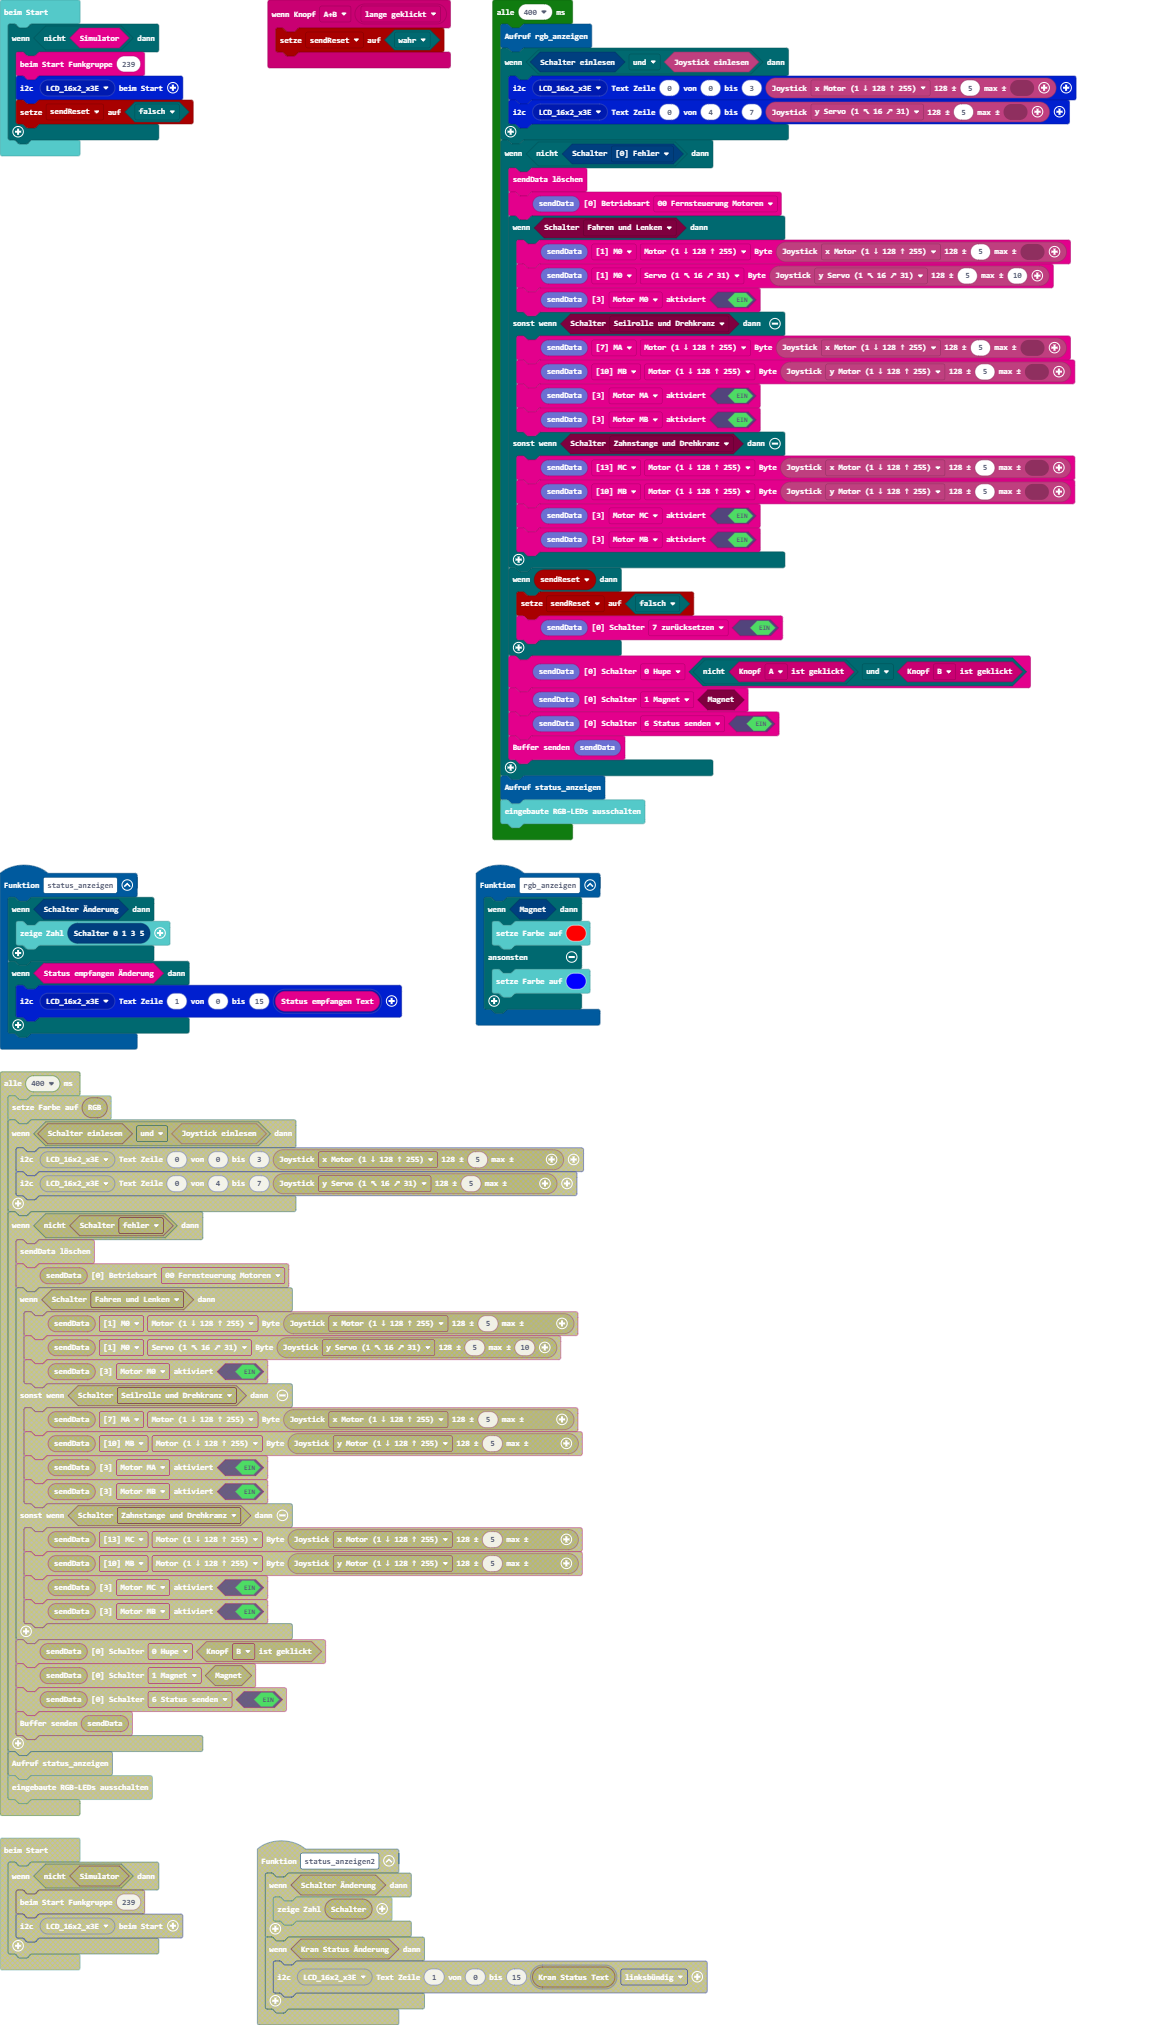
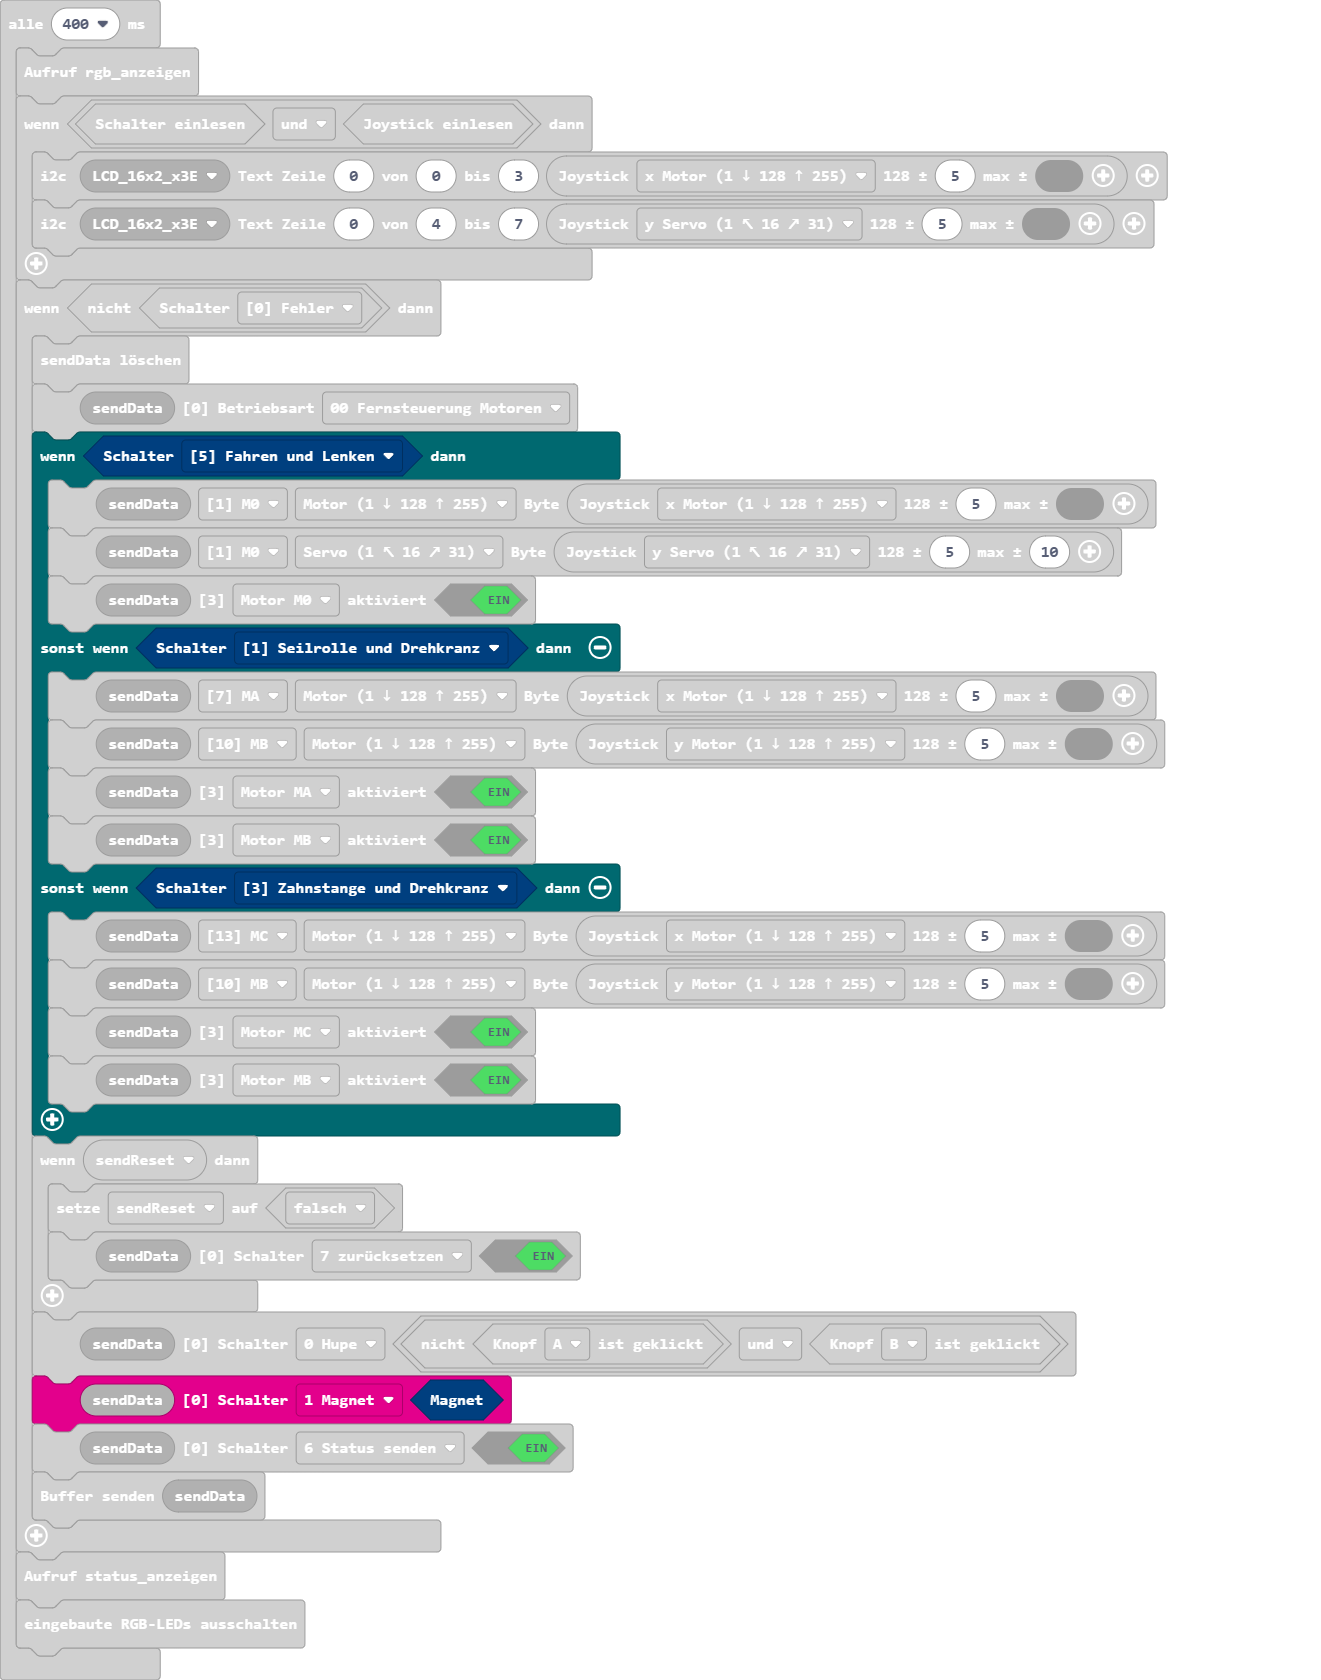
Aktualisiere main.blocks, main.ts

diff --git a/main.ts b/main.ts
@@ -31,16 +31,16 @@ loops.everyInterval(400, function () {
     if (!(radio.isSwitch(radio.eStatus.fehler))) {
         radio.fill_sendBuffer19()
         radio.setBetriebsart(radio.radio_sendBuffer19(), radio.e0Betriebsart.p0)
-        if (kran.isSwitch(kran.eStatus.fahren)) {
+        if (radio.isSwitch(radio.eStatus.fahren)) {
             radio.setByte(radio.radio_sendBuffer19(), radio.eBufferPointer.m0, radio.eBufferOffset.b0_Motor, radio.joystickValue(radio.eJoystickValue.motor, 5))
             radio.setByte(radio.radio_sendBuffer19(), radio.eBufferPointer.m0, radio.eBufferOffset.b1_Servo, radio.joystickValue(radio.eJoystickValue.servo16, 5, 10))
             radio.setaktiviert(radio.radio_sendBuffer19(), radio.e3aktiviert.m0, true)
-        } else if (kran.isSwitch(kran.eStatus.drehen)) {
+        } else if (radio.isSwitch(radio.eStatus.drehen)) {
             radio.setByte(radio.radio_sendBuffer19(), radio.eBufferPointer.ma, radio.eBufferOffset.b0_Motor, radio.joystickValue(radio.eJoystickValue.motor, 5))
             radio.setByte(radio.radio_sendBuffer19(), radio.eBufferPointer.mb, radio.eBufferOffset.b0_Motor, radio.joystickValue(radio.eJoystickValue.ymotor, 5))
             radio.setaktiviert(radio.radio_sendBuffer19(), radio.e3aktiviert.ma, true)
             radio.setaktiviert(radio.radio_sendBuffer19(), radio.e3aktiviert.mb, true)
-        } else if (kran.isSwitch(kran.eStatus.zahnstange)) {
+        } else if (radio.isSwitch(radio.eStatus.zahnstange)) {
             radio.setByte(radio.radio_sendBuffer19(), radio.eBufferPointer.mc, radio.eBufferOffset.b0_Motor, radio.joystickValue(radio.eJoystickValue.motor, 5))
             radio.setByte(radio.radio_sendBuffer19(), radio.eBufferPointer.mb, radio.eBufferOffset.b0_Motor, radio.joystickValue(radio.eJoystickValue.ymotor, 5))
             radio.setaktiviert(radio.radio_sendBuffer19(), radio.e3aktiviert.mc, true)
@@ -51,7 +51,7 @@ loops.everyInterval(400, function () {
             radio.setSchalter(radio.radio_sendBuffer19(), radio.e0Schalter.b7, true)
         }
         radio.setSchalter(radio.radio_sendBuffer19(), radio.e0Schalter.b0, !(input.buttonIsPressed(Button.A)) && input.buttonIsPressed(Button.B))
-        radio.setSchalter(radio.radio_sendBuffer19(), radio.e0Schalter.b1, kran.getMagnet())
+        radio.setSchalter(radio.radio_sendBuffer19(), radio.e0Schalter.b1, radio.getMagnet())
         radio.setSchalter(radio.radio_sendBuffer19(), radio.e0Schalter.b6, true)
         radio.sendData(radio.radio_sendBuffer19())
     }
